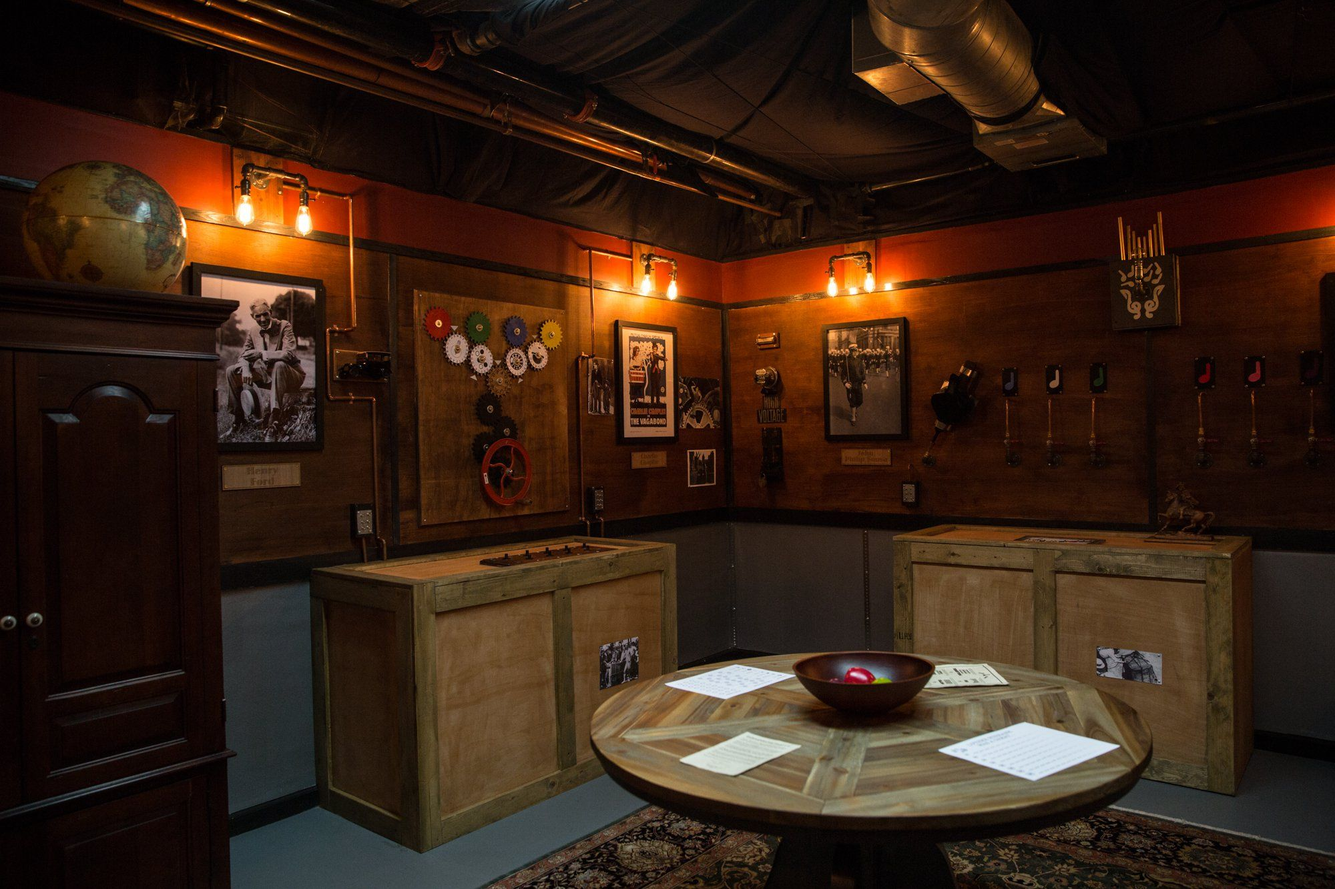
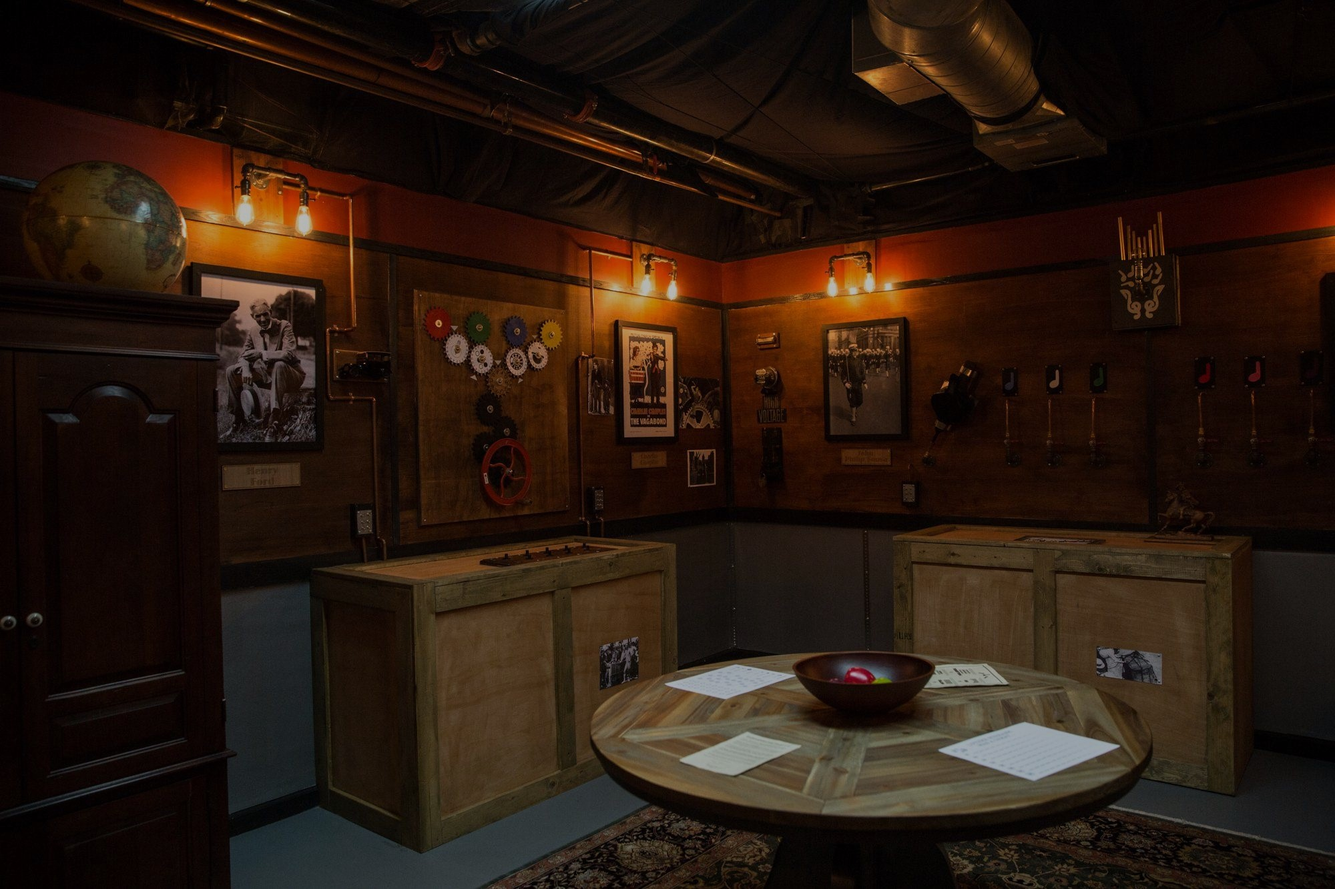
Update UI

diff --git a/frontend/src/App.css b/frontend/src/App.css
@@ -1,12 +1,13 @@
 body{
-    /* background-image: url(../src/assets/bg.jpg); */
-    background-color:#192734;
+    background-image: url(../src/assets/bg.jpg);
+    overflow: auto;
+    background-color: black;
     background-size: cover;
-    display: contents;
+    /* display: contents; */
+    
 }
 
 .btnNext{
     display: flex;
     justify-content: center;
 }
-

diff --git a/frontend/src/pages/Operator.jsx b/frontend/src/pages/Operator.jsx
@@ -207,7 +207,7 @@ function Operator() {
         ))}
       </div>
       <div className="p-10 h-screen">
-        <div className="flex gap-20 flex-wrap flex justify-center">
+        <div className="flex gap-10 flex-wrap flex justify-center">
           {roomColor.map((color, index) => (
             <div key={index}>
               <MatriksSoal
